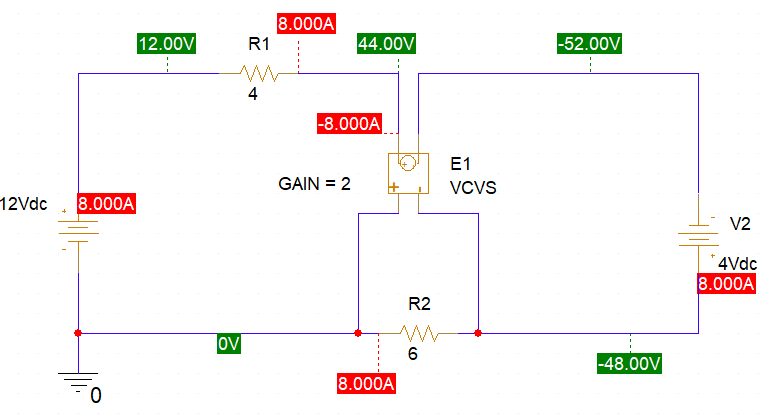
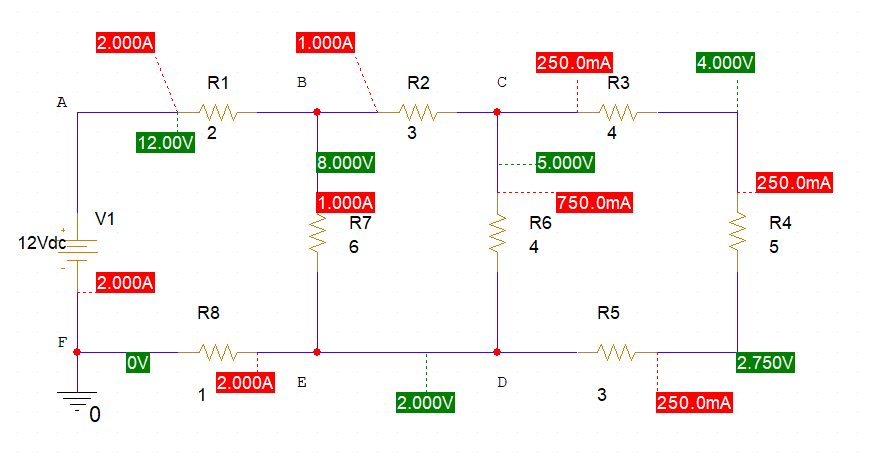
Lab 1: Complete Simulation

diff --git a/Lab1/tex/cover.tex b/Lab1/tex/cover.tex
@@ -29,13 +29,13 @@
 
     \vspace{1cm}
     \begin{tabular}{r l}
-      \textbf{GVHD:}                & \lecturer                \\
-                                    &                          \\
-      \textbf{Lớp:}                 & \className\ -- \semester \\
-                                    &                          \\
-      \textbf{Sinh viên thực hiện:} & \mem                     \\
-                                    &                          \\
-      \textbf{MSSV:}                & \id                      \\
+      \textbf{GVHD:} & \lecturer                \\
+                     &                          \\
+      \textbf{Lớp:}  & \className\ -- \semester \\
+                     &                          \\
+      \textbf{SVTH:} & \mem                     \\
+                     &                          \\
+      \textbf{MSSV:} & \id                      \\
     \end{tabular}
   \end{center}
   \vfill
